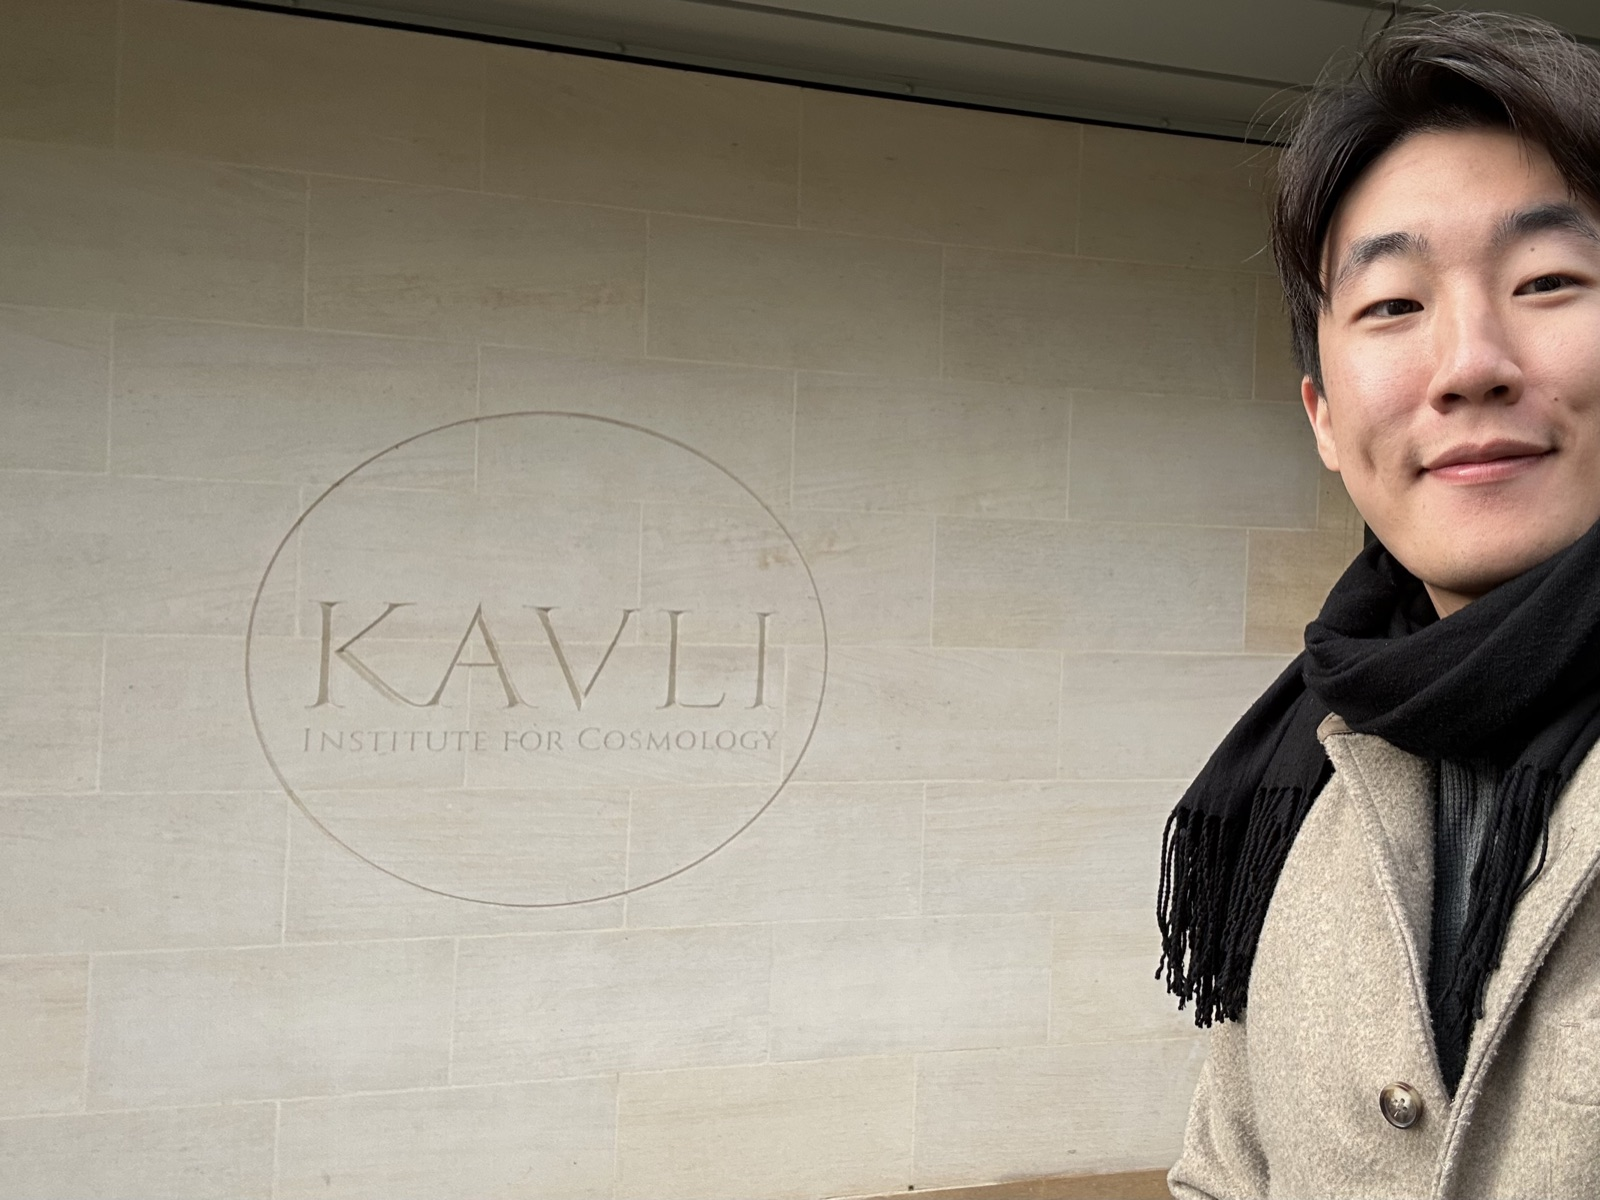
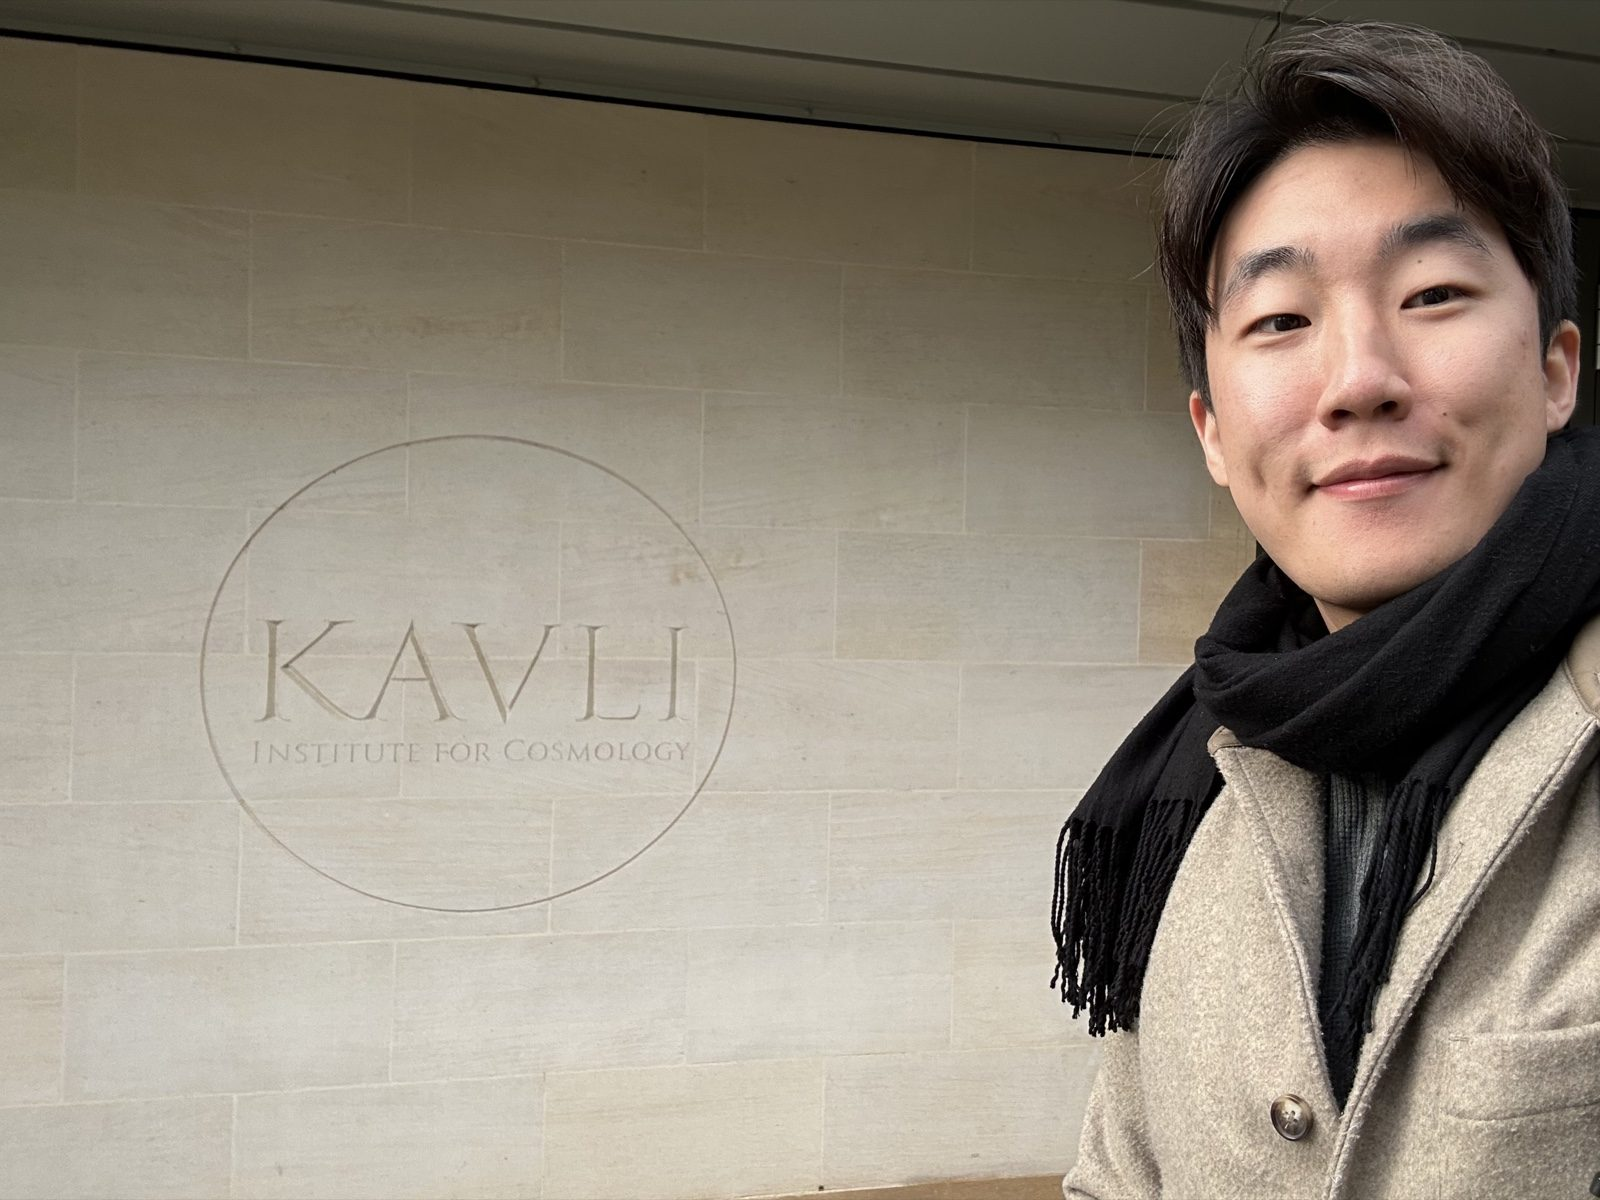
Job talk post: link people, photo slideshow, new Cambridge photo
Links each person's first mention to their web page, turns the two
Princeton talk photos into a click-through slideshow, and replaces the
KICC photo.

diff --git a/posts/job_talk.html b/posts/job_talk.html
@@ -34,20 +34,19 @@
   <h2>Caltech</h2>
 
   <p>
-    I started off with the LIGO seminar at Caltech (hosted by Elias and Sophie Binnie).
+    I started off with the LIGO seminar at Caltech (hosted by <a href="https://comp-relastro.caltech.edu/team/elias-r-most" target="_blank" rel="noopener">Elias</a> and <a href="https://sophiebini.github.io/" target="_blank" rel="noopener">Sophie Bini</a>).
     Elias couldn't make it to the meeting, as he was on parental leave with his
-    newborn&mdash;congratulations again! But I was able to talk with Saul (Zoom), Alan
-    Weinstein, Emily, and three others whose names I didn't catch.
+    newborn&mdash;congratulations again! But I was able to talk with <a href="https://www.pma.caltech.edu/people/saul-a-teukolsky" target="_blank" rel="noopener">Saul</a> (Zoom), <a href="https://labcit.ligo.caltech.edu/~ajw/" target="_blank" rel="noopener">Alan Weinstein</a>, Emily, and three others whose names I didn't catch.
     The audience was very kind and attentive, thank you all.
   </p>
 
   <figure class="figure photo">
-    <img src="../assets/ligo-visit.jpg" alt="Selfie in front of the LIGO Laboratory sign at Caltech" width="1600" height="1200" loading="lazy" style="max-width: 400px;">
+    <img src="../assets/ligo-visit.jpg" alt="Selfie in front of the LIGO Laboratory sign at Caltech" width="1600" height="1200" loading="lazy" style="max-width: 560px;">
     <figcaption>At the LIGO Laboratory, Caltech.</figcaption>
   </figure>
 
   <p>
-    Pasadena was so hot. In fact, Sunny told me Pasadena had recently had a record-breaking
+    Pasadena was so hot. In fact, <a href="https://carnegiescience.edu/bio/dr-sunny-wong" target="_blank" rel="noopener">Sunny</a> told me Pasadena had recently had a record-breaking
     heatwave. It didn't take much to convince me; the silicone casing in my car was melting by the
     time I got back to it.
     After the talk, I dropped by the Carnegie Observatory to hang out with Sunny. He showed me
@@ -70,10 +69,10 @@
   </p>
 
   <p>
-    The next day, I went to Harvard CfA and gave a talk at the joint seminar between Edo Berger's
-    and Ashley Villar's groups (hosted by Edo and Peter Blanchard).
-    After the talk, I talked with Morgan about surface shock heating and mass loss,
-    and with Harsh.
+    The next day, I went to Harvard CfA and gave a talk at the joint seminar between <a href="https://www.cfa.harvard.edu/people/edo-berger" target="_blank" rel="noopener">Edo Berger</a>'s
+    and <a href="https://ashleyvillar.com/" target="_blank" rel="noopener">Ashley Villar</a>'s groups (hosted by Edo and <a href="https://www.cfa.harvard.edu/people/peter-blanchard" target="_blank" rel="noopener">Peter Blanchard</a>).
+    After the talk, I talked with <a href="https://morganmacleod.net/" target="_blank" rel="noopener">Morgan</a> about surface shock heating and mass loss,
+    and with <a href="https://harshkumar13.netlify.app/" target="_blank" rel="noopener">Harsh</a>.
     Both of them were genuinely nice people to talk to.
     During the week of my visit, the ITC was hosting the massive star seminar, and I audited the
     event.
@@ -90,21 +89,21 @@
   </p>
 
   <figure class="figure photo">
-    <img src="../assets/princeton-visit.jpg" alt="Selfie in front of the Princeton Center for Theoretical Science sign" width="1600" height="1200" loading="lazy" style="max-width: 400px;">
+    <img src="../assets/princeton-visit.jpg" alt="Selfie in front of the Princeton Center for Theoretical Science sign" width="1600" height="1200" loading="lazy" style="max-width: 560px;">
     <figcaption>At the Princeton Center for Theoretical Science.</figcaption>
   </figure>
 
   <p>
-    I gave a talk at a joint seminar of Eliot's and Frans's groups. I greatly enjoyed mixing in
+    I gave a talk at a joint seminar of <a href="https://www.astro.princeton.edu/~quataert/" target="_blank" rel="noopener">Eliot</a>'s and <a href="https://fpretori.scholar.princeton.edu/" target="_blank" rel="noopener">Frans</a>'s groups. I greatly enjoyed mixing in
     blackboard talk with slides. Thank you Eliot for recommending the format, and both Eliot and
     Frans for facilitating my visit.
-    Afterward, I had a great time chatting with Yoonsoo and Ashley at PCTS; Abhishek, Jaime,
-    Maxime, and Hamed at LFTP; Eliot and Chris from the astrophysics department; also Matt visiting
+    Afterward, I had a great time chatting with <a href="https://pcts.princeton.edu/people/yoonsoo-kim" target="_blank" rel="noopener">Yoonsoo</a> and <a href="https://web.astro.princeton.edu/people/ashley-bransgrove" target="_blank" rel="noopener">Ashley</a> at PCTS; <a href="https://gravity.princeton.edu/people/abhishek-hegade-kumbale-raveesha" target="_blank" rel="noopener">Abhishek</a>, <a href="https://jredondoyuste.github.io/" target="_blank" rel="noopener">Jaime</a>,
+    Maxime, and Hamed at LFTP; Eliot and <a href="https://ch-astro.com/" target="_blank" rel="noopener">Chris</a> from the astrophysics department; also <a href="https://as.vanderbilt.edu/physics-astronomy/bio/matthew-miles/" target="_blank" rel="noopener">Matt</a> visiting
     from Vanderbilt.
   </p>
 
   <figure class="figure photo">
-    <div class="photo-pair">
+    <div class="photo-carousel">
       <img src="../assets/princeton-talk.jpg" alt="Writing on the blackboard in front of a seated audience at Princeton" width="1600" height="1200" loading="lazy">
       <img src="../assets/princeton-talk2.jpg" alt="Speaking to the audience beside a blackboard covered in equations at Princeton" width="1600" height="1200" loading="lazy">
     </div>
@@ -113,7 +112,7 @@
 
   
   <p>
-    Then, Jim kindly hosted me at IAS, and I was invited to give a talk at IAS AstroCoffee, which
+    Then, <a href="https://www.ias.edu/sns/jmstone" target="_blank" rel="noopener">Jim</a> kindly hosted me at IAS, and I was invited to give a talk at IAS AstroCoffee, which
     takes place at the astrophysics library in the institute. What an amazing opportunity!
     In fact, last year, I was at IAS for PiTP 2025<sup class="fn-ref"><a id="fnref-1" href="#fn-1">1</a></sup>
     and stayed at Freeman Dyson's actual house for two weeks.
@@ -123,31 +122,31 @@
   </p>
 
   <p>
-    After the AstroCoffee talk, I got good questions from James Beattie.
-    Alex walked me through NICER observations and their systematics, which would be relevant to
-    my proposed research, and Jacob filled me in on a few things in numerical-relativity
-    simulations. I also caught up with Gimmy and Jim.
-    Among the audience was Steven Balbus as well, whose face I didn't know at the time, but...
+    After the AstroCoffee talk, I got good questions from <a href="https://astro-beattie.com/" target="_blank" rel="noopener">James Beattie</a>.
+    <a href="https://ajdittmann.github.io/" target="_blank" rel="noopener">Alex</a> walked me through NICER observations and their systematics, which would be relevant to
+    my proposed research, and <a href="https://www.ias.edu/scholars/jacob-fields" target="_blank" rel="noopener">Jacob</a> filled me in on a few things in numerical-relativity
+    simulations. I also caught up with <a href="https://gimmytomas.github.io/" target="_blank" rel="noopener">Gimmy</a> and Jim.
+    Among the audience was <a href="https://www.physics.ox.ac.uk/our-people/balbus" target="_blank" rel="noopener">Steven Balbus</a> as well, whose face I didn't know at the time, but...
   </p>
 
   <h2>ISTA</h2>
 
   <p>
     The next trip was to Austria, specifically, to ISTA for WAF 2026 near Vienna.
-    On the first day, I introduced myself to Gordon, who had already agreed to host me in
+    On the first day, I introduced myself to <a href="https://www.damtp.cam.ac.uk/user/gio10/" target="_blank" rel="noopener">Gordon</a>, who had already agreed to host me in
     Cambridge after the conference.
     Then, I spotted a face I recognized from IAS: Steven Balbus.
-    I walked up to him and started chatting, and ended up having lunch, together with Caroline
-    Terquem from Oxford.
+    I walked up to him and started chatting, and ended up having lunch, together with <a href="https://www.physics.ox.ac.uk/our-people/terquem" target="_blank" rel="noopener">Caroline
+    Terquem</a> from Oxford.
     Steven kindly offered to host me in Oxford afterward if a speaker slot was available, and I
     was genuinely thrilled. The visit ended up not happening as it was nearly the end of term, but
     I was glad to have met him.
   </p>
 
   <p>
-    The conference was a lot of fun. I got to know Nick, Joel, Callum, Nathan, Marianna, and Thierry.
+    The conference was a lot of fun. I got to know <a href="https://nicholasrui.com/" target="_blank" rel="noopener">Nick</a>, <a href="https://portfolio.hyad.es/" target="_blank" rel="noopener">Joel</a>, <a href="https://callumfairbairn.com/" target="_blank" rel="noopener">Callum</a>, Nathan, <a href="https://www.damtp.cam.ac.uk/research/astro/person/mes86" target="_blank" rel="noopener">Marianna</a>, and Thierry.
     All of them gave great talks on IGW / B-field, disks (or discs if you will), subsystem modes,
-    and an <em>experiment</em> that resembled SASI modes! We went to "Redlingerhütte," a cozy pub
+    and an <a href="https://irfu.cea.fr/en/dap/coast-computational-astrophysics-3/projet-sn2ns/the-supernova-fountain/" target="_blank" rel="noopener"><em>experiment</em></a> that resembled SASI modes! We went to "Redlingerhütte," a cozy pub
     by the hiking trail. I had schnitzel (too much) with Sturm and some Austrian beer. I had so
     much fun chatting with Callum, Nathan, Gordon, and Thierry there. The anesthesia (or
     anaesthesia if you will) story of Callum's still makes me laugh. 
@@ -166,8 +165,8 @@
   <p>
     The last leg of my job talk trip was in the UK. The UK is a very special place for me thanks to
     Hannah. Hannah and I were reunited after months apart and spent the weekend together.
-    On Monday, I went to the University of Birmingham, which also means a lot to me! Patricia and
-    Geraint hosted me again and I spoke at a special seminar.
+    On Monday, I went to the University of Birmingham, which also means a lot to me! <a href="https://www.birmingham.ac.uk/staff/profiles/physics/schmidt-patricia" target="_blank" rel="noopener">Patricia</a> and
+    <a href="https://www.birmingham.ac.uk/staff/profiles/physics/pratten-geraint" target="_blank" rel="noopener">Geraint</a> hosted me again and I spoke at a special seminar.
     Geraint asked me really good questions that sparked my own curiosity.
     It was good to see Patricia, Geraint, and Adam again.
   </p>
@@ -199,7 +198,7 @@
   </p>
 
   <p>
-    The next day I went to DAMTP and chatted with Roman. I was jealous of his collection of Landau
+    The next day I went to DAMTP and chatted with <a href="https://www.damtp.cam.ac.uk/person/rrr34" target="_blank" rel="noopener">Roman</a>. I was jealous of his collection of Landau
     &amp; Lifshitz in original Russian! I may have been over-caffeinated, which made me a little
     theatrical, and I tried out some of my broken Russian, which has been fading quickly since my
     two years of classes. Roman patiently bore with me.
@@ -221,14 +220,14 @@
   </figure>
 
   <p>
-    I gave a talk at a DAMTP seminar. Meng, Marianna, Roman, Callum, and Uli asked good questions!
-    John Papaloizou of the Papaloizou-Pringle instability was in the crowd as well. Gordon was
+    I gave a talk at a DAMTP seminar. <a href="https://www.clarehall.cam.ac.uk/directory/meng-sun/" target="_blank" rel="noopener">Meng</a>, Marianna, Roman, Callum, and <a href="https://www.damtp.cam.ac.uk/user/us248/" target="_blank" rel="noopener">Uli</a> asked good questions!
+    <a href="https://www.damtp.cam.ac.uk/person/jcbp2" target="_blank" rel="noopener">John Papaloizou</a> of the Papaloizou-Pringle instability was in the crowd as well. Gordon was
     away. The talk went smoothly.
   </p>
 
   <p>
-    The next day, Callum and Cathie hosted me in their group meeting. I got to listen again
-    to Callum's great review talk. After the meeting, I went to KICC to grab lunch with Nikhil.
+    The next day, Callum and <a href="https://www.ast.cam.ac.uk/people/cathie-clarke" target="_blank" rel="noopener">Cathie</a> hosted me in their group meeting. I got to listen again
+    to Callum's great review talk. After the meeting, I went to KICC to grab lunch with <a href="https://nikhil-sarin.github.io/" target="_blank" rel="noopener">Nikhil</a>.
     Nikhil invited me to the Fellows' dining room at Churchill College. Nikhil told me about the
     implications of my work for multi-messenger analyses, and I had a great time learning about his
     and his group's interests.
@@ -237,7 +236,7 @@
   <h2>Done, finally</h2>
 
   <p>
-    This sums up my "epic" job tour (quoting Marianna). First of all, big thanks to my PhD advisor Teja for making this possible. Without his support and network, this would've never happened.
+    This sums up my "epic" job tour (quoting Marianna). First of all, big thanks to my PhD advisor <a href="https://ntveem.github.io/" target="_blank" rel="noopener">Teja</a> for making this possible. Without his support and network, this would've never happened.
   </p>
   <p>
     I would say that the most fruitful part of
@@ -248,7 +247,7 @@
 
   <p>
     Academia, or at least theoretical physics, is going through a time of great uncertainty.
-    Whether it's funding or the rapidly growing capabilities of artificial intelligence, it's
+    Whether it's due to funding or the rapidly growing capabilities of artificial intelligence, it's
     unclear what the future of academia will look like.
     I don't know what's in front of me, but I'm sure this trip will be one of the most memorable
     parts of this year.
@@ -266,6 +265,7 @@
 
 <div id="site-footer"></div>
 <script src="../assets/footer.js"></script>
+<script src="../assets/photo-carousel.js"></script>
 
 </body>
 </html>

diff --git a/assets/photo-carousel.js b/assets/photo-carousel.js
@@ -1,0 +1,64 @@
+// Turns every <div class="photo-carousel"> into a slideshow: one photo
+// visible at a time, with arrows and dots to step through the rest.
+//
+// Usage (inside a post):
+//   <figure class="figure photo">
+//     <div class="photo-carousel">
+//       <img src="..." alt="...">
+//       <img src="..." alt="...">
+//     </div>
+//     <figcaption>Caption for the set.</figcaption>
+//   </figure>
+//   ... and once, near the end of the page:
+//   <script src="../assets/photo-carousel.js"></script>
+//
+// The photos only change when the reader clicks; nothing rotates by itself.
+// Without JavaScript the photos simply stack.
+(function () {
+  Array.prototype.forEach.call(document.querySelectorAll('.photo-carousel'), function (el) {
+    var slides = Array.prototype.slice.call(el.querySelectorAll('img'));
+    if (slides.length < 2) return;
+
+    var index = 0;
+
+    slides.forEach(function (img) { img.loading = 'eager'; });
+
+    var dots = document.createElement('div');
+    dots.className = 'carousel-dots';
+    var dotButtons = slides.map(function (_, i) {
+      var b = document.createElement('button');
+      b.type = 'button';
+      b.setAttribute('aria-label', 'Show photo ' + (i + 1) + ' of ' + slides.length);
+      b.addEventListener('click', function () { show(i); });
+      dots.appendChild(b);
+      return b;
+    });
+
+    function arrow(className, label, text, step) {
+      var b = document.createElement('button');
+      b.type = 'button';
+      b.className = 'carousel-arrow ' + className;
+      b.setAttribute('aria-label', label);
+      b.innerHTML = text;
+      b.addEventListener('click', function () { show(index + step); });
+      return b;
+    }
+
+    function show(i) {
+      index = (i + slides.length) % slides.length;
+      slides.forEach(function (img, k) {
+        img.classList.toggle('is-active', k === index);
+        img.setAttribute('aria-hidden', k === index ? 'false' : 'true');
+      });
+      dotButtons.forEach(function (b, k) {
+        b.classList.toggle('is-active', k === index);
+      });
+    }
+
+    el.appendChild(arrow('carousel-prev', 'Previous photo', '&#8249;', -1));
+    el.appendChild(arrow('carousel-next', 'Next photo', '&#8250;', 1));
+    el.appendChild(dots);
+    el.classList.add('is-ready');
+    show(0);
+  });
+})();

diff --git a/style.css b/style.css
@@ -245,6 +245,57 @@ figure.figure.photo figcaption { text-align: center; }
 @media (max-width: 560px) {
   .photo-pair { grid-template-columns: 1fr; }
 }
+/* Photo slideshow (assets/photo-carousel.js): wrap the <img>s in
+   <div class="photo-carousel">. One shows at a time; arrows and dots switch.
+   Until the script runs (or without JavaScript) the photos just stack. */
+.photo-carousel { max-width: 560px; margin: 0 auto; }
+.photo-carousel img { display: block; width: 100%; margin-bottom: 10px; }
+.photo-carousel.is-ready { position: relative; display: grid; grid-template-columns: minmax(0, 1fr); }
+.photo-carousel.is-ready img {
+  grid-area: 1 / 1;
+  margin-bottom: 0;
+  opacity: 0;
+  transition: opacity 0.6s ease;
+}
+.photo-carousel.is-ready img.is-active { opacity: 1; }
+.carousel-arrow {
+  position: absolute;
+  top: calc(50% - 12px);
+  transform: translateY(-50%);
+  width: 34px;
+  height: 34px;
+  padding: 0 0 3px;
+  border: none;
+  border-radius: 50%;
+  background: rgba(0, 0, 0, 0.45);
+  color: #fff;
+  font-size: 1.4rem;
+  line-height: 1;
+  cursor: pointer;
+}
+.carousel-arrow:hover, .carousel-arrow:focus-visible { background: rgba(0, 0, 0, 0.7); }
+.carousel-prev { left: 8px; }
+.carousel-next { right: 8px; }
+.carousel-dots {
+  grid-area: 2 / 1;
+  display: flex;
+  justify-content: center;
+  gap: 8px;
+  margin-top: 10px;
+}
+.carousel-dots button {
+  width: 8px;
+  height: 8px;
+  padding: 0;
+  border: none;
+  border-radius: 50%;
+  background: var(--border);
+  cursor: pointer;
+}
+.carousel-dots button.is-active { background: var(--accent); }
+@media (prefers-reduced-motion: reduce) {
+  .photo-carousel.is-ready img { transition: none; }
+}
 figure.figure figcaption strong {
   color: var(--text);
 }
